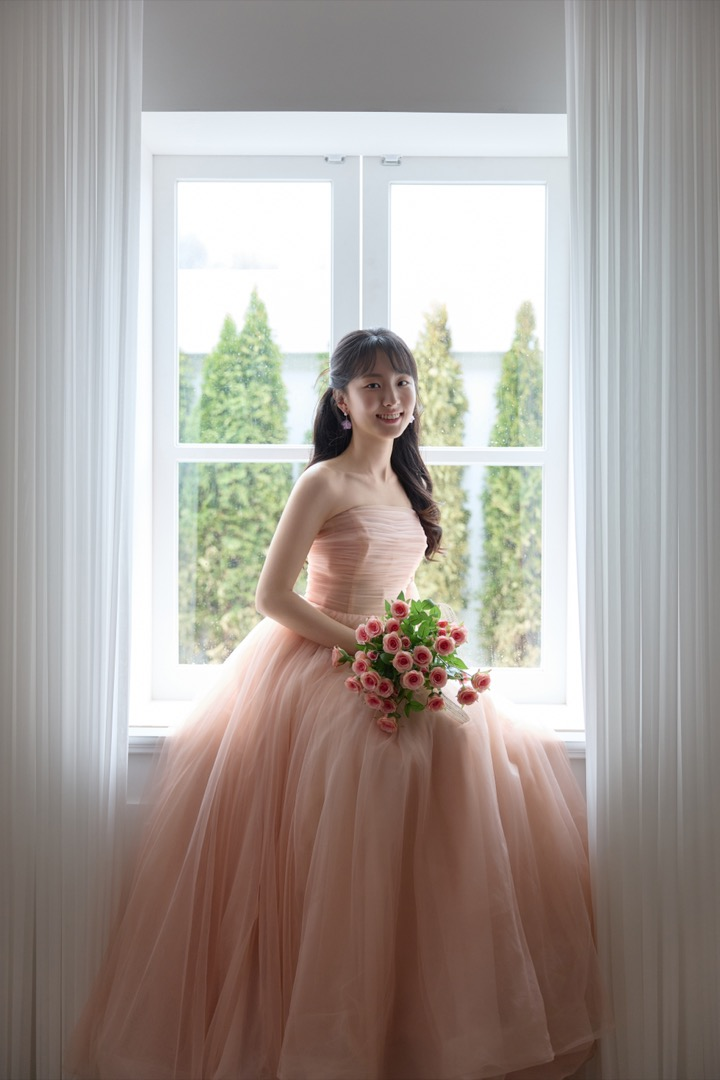
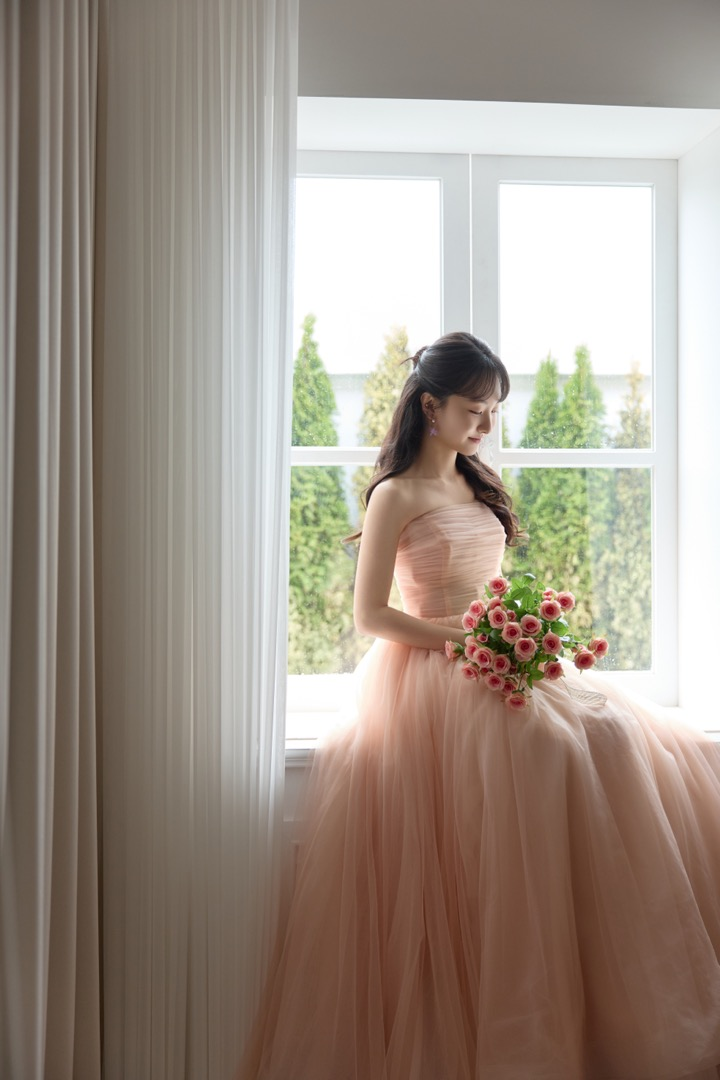
replace real images

diff --git a/src/images/real/index.tsx b/src/images/real/index.tsx
@@ -26,6 +26,8 @@ import image24 from "./24.jpg"
 import image25 from "./25.jpg"
 import image26 from "./26.jpg"
 import image27 from "./27.jpg"
+import image28 from "./28.jpg"
+import image29 from "./29.jpg"
 
 export const COVER_IMAGE = coverImage
 
@@ -39,9 +41,11 @@ export const GALLERY_IMAGES = [
   image1,
   image6,
   image7,
-  image10,
-  image8,
+  // image10,
+  // image8,
   image9,
+  image29,
+  image28,
   image11,
   image12,
   image13,
